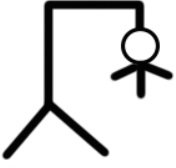
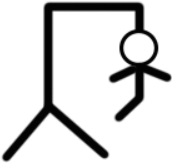
Canvia l'estat de la paraula incògnita i també imatge segons numerrors

Changed region(s): [[0.0, 0.0, 0.9943, 0.9821]]

diff --git a/index.html b/index.html
@@ -15,9 +15,10 @@
         <script>
             
             let finestra1, finestra2, finestra3;
-            var llistaparaules, lletra, paraulaEnJoc, numParaules, numAleatori;
+            var llistaparaules, lletra, paraulaEnJoc, numParaules, numAleatori, srcImatge;
             var estatParaula = [];
             var paraulaIncognita = "";
+            var numErrors = 0;
             
             var resposta = prompt("Entra una paraula o grup de paraules (separades per comes i sense espais):");
             
@@ -44,7 +45,7 @@
                 //console.log(paraulaEnJoc);
             //si s'introdueix 1 paraula
             }else {
-                paraulaEnJoc = resposta;
+                paraulaEnJoc = resposta.trim().toLowerCase();
                 //console.log(paraulaEnJoc);
             }
 
@@ -64,38 +65,86 @@
             
             //preparem la paraula amb incognites
             for (var i=0; i < estatParaula.length; i++) {
-                console.log(estatParaula[i]);
                 paraulaIncognita = paraulaIncognita + " " + estatParaula[i];
             }
 
-            console.log(paraulaIncognita);
+            prepararParaulaIncognita();
 
-            canviarParaulaIncognita();
-
-            //coloquem la paraula amb incognites a la finestra2
-            function canviarParaulaIncognita(){
+            //coloquem la paraula amb incognites a la finestra2 per començar el joc
+            function prepararParaulaIncognita(){
                 finestra2.window.onload = function() {
                     finestra2.window.document.getElementById("paraulaincognita").innerText = paraulaIncognita;
                 };
+            }
+
+            function canviarParaulaIncognita(){
+                finestra2.window.document.getElementById("paraulaincognita").innerText = paraulaIncognita;
+            }
+
+            function canviarImatgePenjat(numErrors){
+                
+                switch (numErrors){
+                    case 1:
+                        srcImatge = "img/1.jpg";
+                    break;
+                    case 2:
+                        srcImatge = "img/2.jpg";
+                    break;
+                    case 3:
+                        srcImatge = "img/3.jpg";
+                    break;
+                    case 4:
+                        srcImatge = "img/4.jpg";
+                    break;
+                    case 5:
+                        srcImatge = "img/5.jpg";
+                    break;
+                }
+                
+                finestra1.window.document.getElementById("imatgePenjat").src = srcImatge;
+
             }
 
             document.getElementById("btIntroduirLletra").addEventListener("click", introdueixLletra);
 
             //introduïr i comprovar lletres
             function introdueixLletra(){
+                
                 lletra = prompt("Introdueixi la lletra desitjada: ");
-                //console.log(lletra);
-                 //comprovar si la lletra està o no a la paraula
-                 if(paraulaEnJoc.indexOf(lletra) != -1){
-                        //console.log('si');
-                        alert("La paraula en joc si conté la lletra " + lletra);
-                    }else if (lletra == "") {
-                        //console.log('no');
-                        alert("Introdueixi una lletra!");
-                    } else {
-                        //console.log('no');
-                        alert("La paraula en joc no conté la lletra " + lletra);
+                lletra = lletra.trim().toLowerCase();
+                //comprovar si la lletra està o no a la paraula
+                if(paraulaEnJoc.indexOf(lletra) != -1){
+
+                    alert("La paraula en joc si conté la lletra " + lletra);
+                    // comprovem si la paraula en joc conté la lletra i si és així ho canviem a estat paraula
+                    for (var i=0; i < paraulaEnJoc.length; i++) {
+                        if (paraulaEnJoc.charAt(i) == lletra){
+                            estatParaula[i] = lletra;
+                        }
+
                     }
+
+                    paraulaIncognita = "";
+                    
+                    // canviem la paraula que mostrem a l'usuari amb el nou estat
+                    for (var i=0; i < estatParaula.length; i++) {
+                        paraulaIncognita = paraulaIncognita + " " + estatParaula[i];
+                    }
+
+                    canviarParaulaIncognita();
+
+                }
+                
+                else if (lletra == "") {
+                    alert("Introdueixi una lletra si us plau...");
+                } 
+                
+                else {
+                    alert("La paraula en joc no conté la lletra " + lletra);
+                    numErrors = numErrors + 1;
+                    canviarImatgePenjat(numErrors);
+                }
+
             }
         </script>
     </body>
